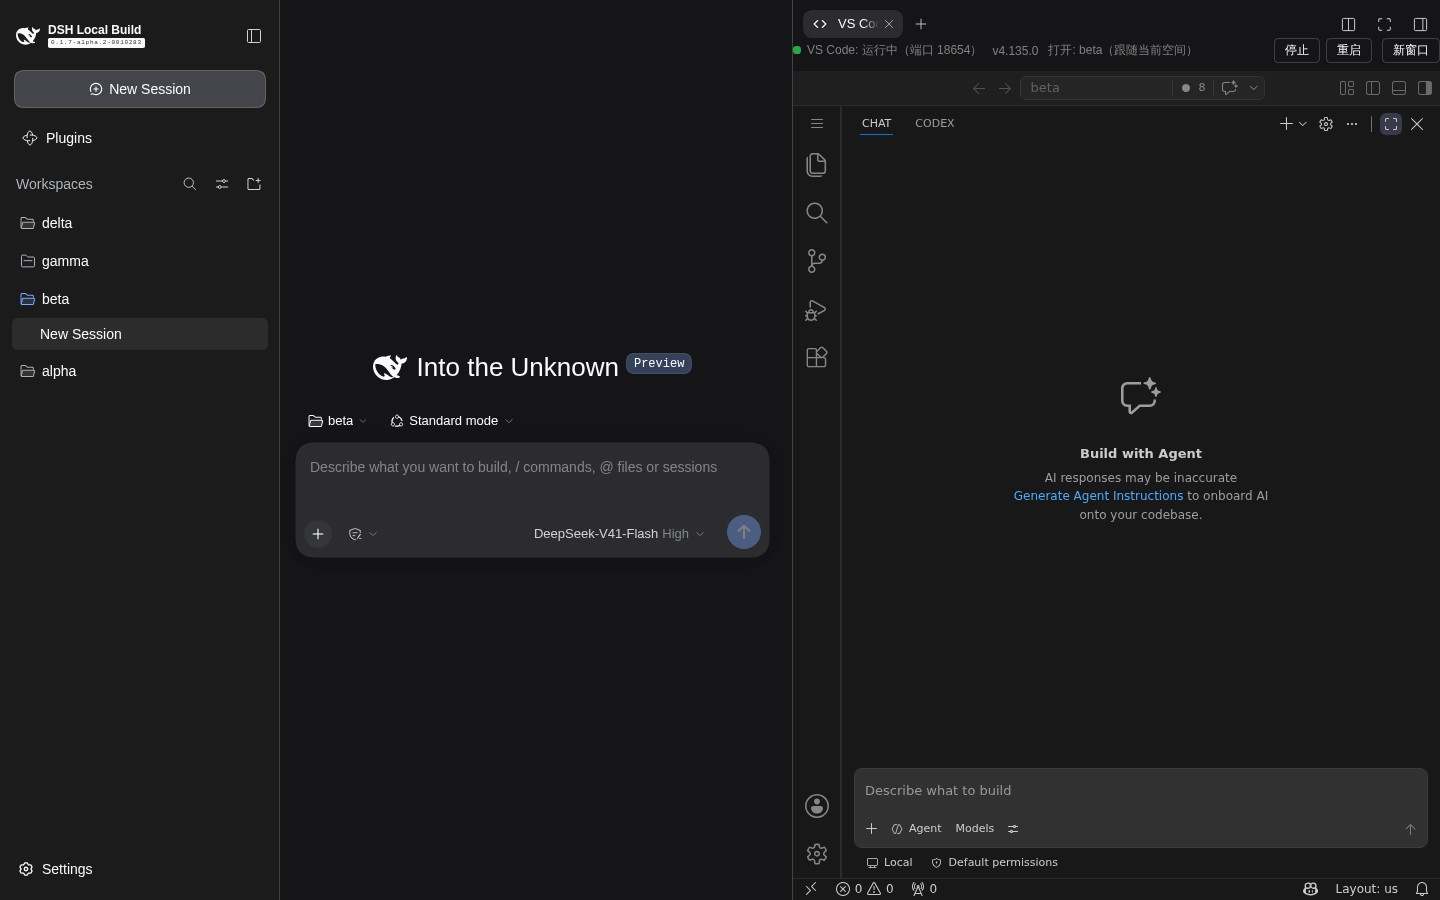
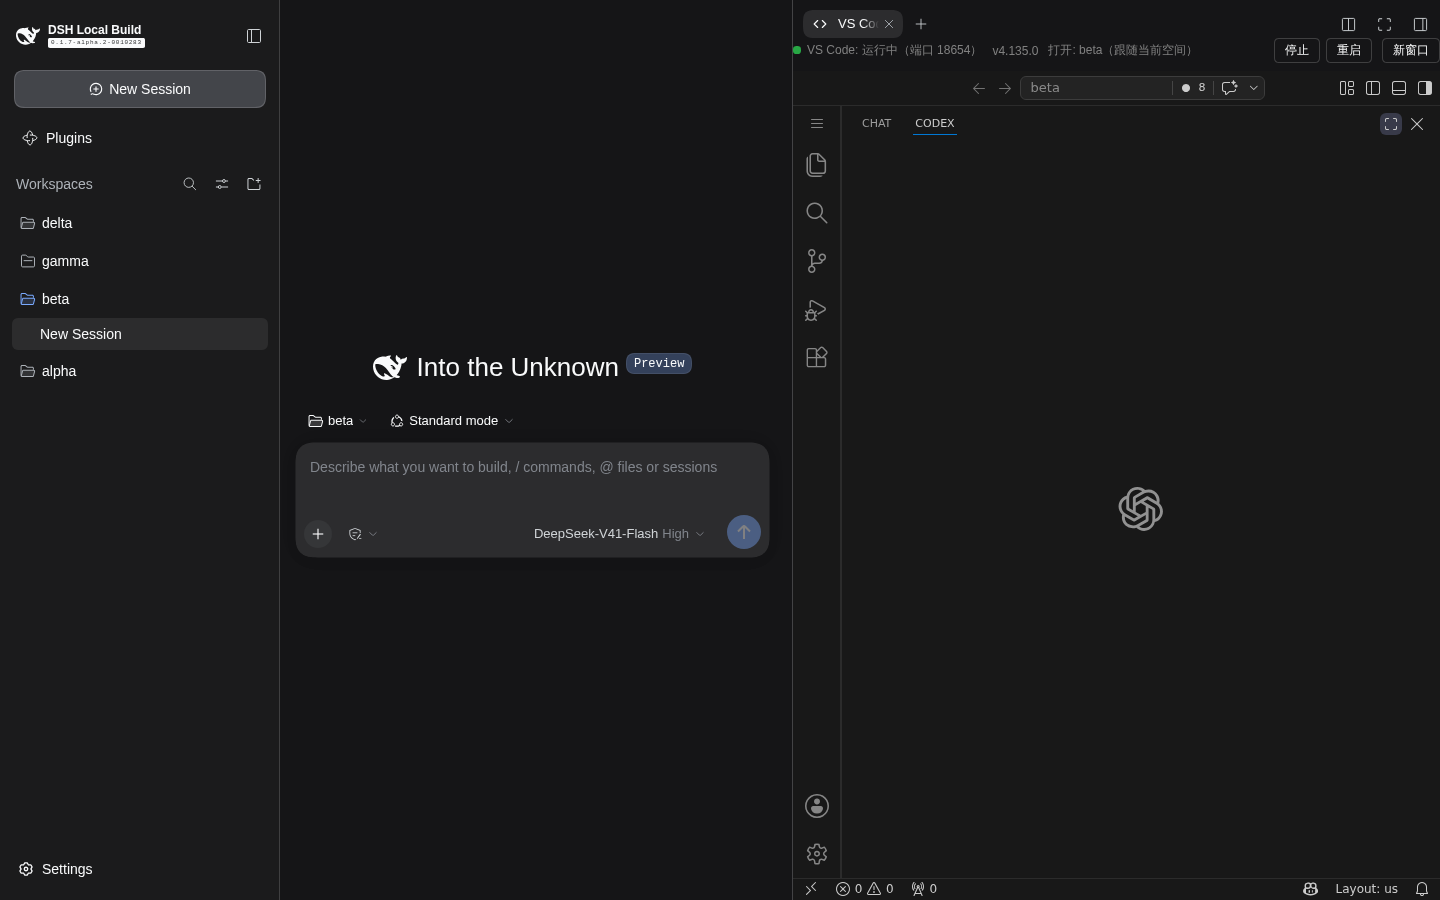
feat: 副边栏默认定位到 Codex（新 workspace 首启，扩展已装时）
- 宿主：findCodexAuxContainerId 扫 extensions 目录找 secondarySidebar 容器
  （codex 优先），ensureLayoutInitExtension 每次启动 code-server 前在 pinned
  安装树内置扩展目录幂等生成 dsh-layout-init 微扩展
- 微扩展 onStartupFinished 激活：容器命令存在且该 workspace 未定位过
  （workspaceState 记账，仅一次）才执行定位命令；不重复执行/不强拉
- e2e：V1/V4-gamma/V5 增加容器定位断言，全量回归 24/24 通过；
  报告 demo/e2e-report-0.1.23.md

Changed region(s): [[0.5938, 0.84, 1.0, 0.9644], [0.7188, 0.4978, 0.875, 0.5911], [0.7812, 0.4044, 0.8125, 0.4667]]

diff --git a/lib/index.js b/lib/index.js
@@ -137,6 +137,73 @@ export function apply(ctx) {
 
   function pinnedBinary() { return config.installDir + '/' + PIN.root + '/bin/code-server' }
 
+  // —— 微型内置扩展 dsh-layout-init（0.1.23）：新 workspace 首启把副边栏活动容器定位到 Codex ——
+  // 背景：副边栏默认容器是内置 Chat（GitHub agent 视图），Codex 虽已安装也要手动点一次标签。
+  // 做法：扫插件托管的 extensions 目录找贡献了 secondarySidebar 容器的扩展（标题/id 含 codex 优先），
+  // 在 pinned 安装树的内置扩展目录生成一个 only-once 执行容器命令的微扩展（幂等覆盖，随重启更新）。
+  // 每个 workspace 只执行一次（workspaceState 记账），之后交给用户与 VS Code 的持久化，不强拉。
+  function findCodexAuxContainerId() {
+    const dir = config.dataDir + '/extensions'
+    let fallback = null
+    let names = []
+    try { names = readdirSync(dir) } catch (e) { return null }
+    for (const name of names) {
+      let pkg = null
+      try { pkg = JSON.parse(readFileSync(dir + '/' + name + '/package.json', 'utf8')) } catch (e) { continue }
+      const containers = ((pkg.contributes || {}).viewsContainers || {}).secondarySidebar || []
+      for (const c of containers) {
+        const id = String((c && c.id) || '')
+        if (!id) continue
+        if (/codex/i.test(id + ' ' + String((c && c.title) || ''))) return id
+        if (!fallback) fallback = id
+      }
+    }
+    return fallback
+  }
+
+  function ensureLayoutInitExtension() {
+    if (config.serverMode !== 'pinned') return
+    const extRoot = config.installDir + '/' + PIN.root + '/lib/vscode/extensions/dsh-layout-init'
+    const containerId = findCodexAuxContainerId()
+    const command = containerId ? 'workbench.view.extension.' + containerId : ''
+    try {
+      mkdirSync(extRoot, { recursive: true })
+      writeFileSync(extRoot + '/package.json', JSON.stringify({
+        name: 'dsh-layout-init',
+        publisher: 'dsh',
+        version: '0.0.1',
+        displayName: 'DSH Layout Init',
+        description: 'DSH 桥生成的启动布局微扩展：新 workspace 首启把副边栏定位到 Codex 容器。',
+        engines: { vscode: '^1.70.0' },
+        main: './extension.js',
+        activationEvents: ['onStartupFinished'],
+      }, null, 2) + '\n')
+      writeFileSync(extRoot + '/extension.js', [
+        '// 由 dsh-vscode-bridge 在每次 code-server 启动时生成（幂等覆盖）。',
+        '// 行为：目标容器命令存在（Codex 已安装）且本 workspace 尚未定位过时，',
+        '// 执行一次容器定位命令；已定位过则不再执行（不与用户抢布局控制权）。',
+        "const vscode = require('vscode')",
+        'const TARGET_COMMAND = ' + JSON.stringify(command),
+        "const PIN_KEY = 'dsh.layoutInit.auxContainerPinned.v1'",
+        'async function activate(context) {',
+        '  try {',
+        '    if (!TARGET_COMMAND) return',
+        '    const cmds = await vscode.commands.getCommands(true)',
+        '    if (cmds.indexOf(TARGET_COMMAND) === -1) return',
+        '    if (context.workspaceState.get(PIN_KEY)) return',
+        '    await context.workspaceState.update(PIN_KEY, true)',
+        '    await vscode.commands.executeCommand(TARGET_COMMAND)',
+        '  } catch (e) { /* 静默：布局定位失败不影响启动 */ }',
+        '}',
+        'function deactivate() {}',
+        'module.exports = { activate, deactivate }',
+        '',
+      ].join('\n'))
+    } catch (e) {
+      console.log('dsh-vscode-bridge: 生成 dsh-layout-init 扩展失败（不阻断启动）: ' + String(e && e.message || e))
+    }
+  }
+
   async function ensureInstall() {
     if (config.serverMode === 'custom') {
       const bin = String(config.customBinaryPath || '').trim()
@@ -373,6 +440,7 @@ export function apply(ctx) {
     rt.lastError = ''
     try {
       const target = await ensureInstall()
+      ensureLayoutInitExtension()
       const dir = openDirOf(config)
       if (!dirExists(dir)) throw new Error('打开目录不存在: ' + dir)
       ensureDirs([config.dataDir + '/user-data', config.dataDir + '/extensions'])

diff --git a/demo/e2e-report-0.1.23.md b/demo/e2e-report-0.1.23.md
@@ -1,0 +1,63 @@
+# dsh-vscode-bridge 0.1.23 e2e 验证报告 —— 副边栏默认定位到 Codex（专注布局 + 信任目录回归）
+
+- **被测版本**：`dsh-vscode-bridge@0.1.23`（`feat/focus-layout` 分支；0.1.21 专注布局 + 0.1.22 信任目录之上，
+  新增「新 workspace 首启副边栏自动定位到 Codex」）
+- **验证环境**（按工作区规则 1，全程隔离调试实例，未触碰 3080 主实例与其 code-server 18644）：
+  - `DSH_HOME=/tmp/dsh-dev-home`、`DSH_VSCODE_BRIDGE_WORKSPACE=/tmp/dsh-dev-ws`、
+    `dsh web --profile web --no-open --port 3190`（code-server 18654）
+  - 同装 `dsh-better-sidebar@0.21.0`；扩展含 `openai.chatgpt`（Codex）/ `rust-analyzer`（自主实例只读复制）
+  - 测试空间 `/tmp/dsh-dev-ws/spaces/{alpha,beta,gamma,delta}`；e2e 开头自动重置（停 code-server →
+    清 user-data → config 复位 focusLayout/trustWorkspace=true、池上限 8 → ensure 启动）
+- **结果**：**24/24 断言通过**（原始记录：[e2e-results-0.1.23.json](./e2e-results-0.1.23.json)）
+
+## 0.1.23 新增实现
+
+**问题**：新 workspace 首启时副边栏默认容器是内置 Chat（GitHub agent 视图），Codex 装了也要手动点一次标签。
+
+**做法**（宿主 `lib/index.js`）：
+1. `findCodexAuxContainerId()`：扫插件托管的 extensions 目录各扩展 `package.json` 的
+   `contributes.viewsContainers.secondarySidebar`，取 id/标题含 `codex` 的容器（实测命中 Codex 扩展的
+   `codexSecondaryViewContainer`；找不到 codex 匹配时回退首个副边栏容器；未安装则返回 null）。
+2. `ensureLayoutInitExtension()`：每次启动 code-server 前在 pinned 安装树的**内置扩展目录**生成/覆盖
+   微型扩展 `dsh-layout-init`（node 侧 `main`，`onStartupFinished` 激活），目标命令
+   `workbench.view.extension.codexSecondaryViewContainer` 随生成时烘焙。
+3. 微扩展行为：容器命令存在（Codex 已安装）且**该 workspace 尚未定位过**（`workspaceState` 记账，
+   每 workspace 仅一次）才执行一次定位命令；已定位过 → 不再执行，布局交给用户与 VS Code 持久化，
+   **绝不重复执行/强拉**（与专注布局"不强拉"语义一致）。Codex 未安装 → 扩展静默空转；
+   custom 二进制模式不改其安装树、暂不注入；Codex 安装/卸载后重启 code-server 使生成内容更新。
+
+## 验证点与现场证据
+
+| # | 验证点 | 结果 |
+| --- | --- | --- |
+| V1 | alpha 首开：专注布局全项（边栏/编辑器/面板收起、状态栏隐藏、活动栏保留、副边栏最大化）+ 无信任横幅 + 四键落盘 | 8/8 PASS |
+| V1 | **副边栏默认定位到 Codex**：容器页签 `Chat\|Codex`，激活项 = **Codex**、标题 label = Codex | PASS |
+| V2 | 显式打开主边栏 → 解除最大化；重载后保留用户布局；状态栏仍隐藏 | 3/3 PASS |
+| V3 | 全新空间 beta 自动进专注 | PASS |
+| V4 | 关闭专注：alpha 状态栏恢复且保留用户布局；beta 保持专注；focus 三键移除、trust 键保留 | 6/6 PASS |
+| V4 | gamma 全新空间不自动最大化、状态栏可见，且**副边栏同样定位到 Codex（首启一次，专注关闭时也生效）** | PASS |
+| V5 | 重新开启：delta 再进专注、四键重新落盘、**副边栏定位到 Codex** | 3/3 PASS |
+| V6 | 设置页「专注布局」勾选框存在且状态一致（只读检查） | PASS |
+
+首开即定位到 Codex（无横幅、无杂物，OpenAI Codex 视图加载态）：
+
+![01 首开即定位 Codex](./01-focus-alpha.png)
+
+## 复跑方式
+
+```bash
+cd <本插件目录> && ln -sfn ../DSH-better-sidebar/node_modules node_modules
+DSH_URL='http://127.0.0.1:3190/?token=<一次性启动 token>' node demo/e2e-focus-layout.mjs
+# 隔离实例启动：
+cd <dsh 仓库> && DSH_HOME=/tmp/dsh-dev-home DSH_VSCODE_BRIDGE_WORKSPACE=/tmp/dsh-dev-ws \
+  node apps/cli/lib/bin.js --profile web --no-open --port 3190
+```
+
+## 说明与边界
+
+- 0.1.21（专注布局）/0.1.22（信任目录）的验证记录：[e2e-report-0.1.21.md](./e2e-report-0.1.21.md)、
+  [e2e-report-0.1.22.md](./e2e-report-0.1.22.md)；本轮 01–09 截图为 0.1.23 重跑产物（覆盖同名文件）。
+- 定位为「每 workspace 一次」：用户此后切到别的容器/关掉副边栏，重启/重载都不会被拉回——
+  与"已退出专注则保留用户布局"同一控制权语义。
+- 生成物写入的是 pinned 安装树内置扩展目录（本插件管理并已在补齐流程中验证过可写）；
+  更换固化版本（PIN 升级）后会随新安装树重新生成。

diff --git a/README.md b/README.md
@@ -105,6 +105,15 @@ user settings，之后不再跟随文件变化，而旧实现只是"挂载时随
 「忽略 `Default ` 前缀与大小写」比较（workbench 会把值规范化成当前构建的标签，如
 `Default Dark Modern` → `Dark Modern`），不再重复改写。同属 client 侧改动，刷新浏览器生效。
 
+**0.1.23 副边栏默认定位到 Codex**：新 workspace 首启时副边栏的默认容器是内置 Chat（GitHub agent
+视图），Codex 装了也要手动点一次标签。本版本起，宿主在每次启动 code-server 前扫描插件托管的
+extensions 目录，找贡献了 `secondarySidebar` 容器的扩展（id/标题含 `codex` 优先），在 pinned 安装树的
+**内置扩展目录**生成微型扩展 `dsh-layout-init`（幂等覆盖，重启 code-server 即更新）：其激活
+（`onStartupFinished`）后检查容器命令存在（Codex 已安装）且**该 workspace 尚未定位过**
+（`workspaceState` 记账，每 workspace 仅一次），才执行一次 `workbench.view.extension.<容器id>`。
+之后布局交给用户与 VS Code 持久化，绝不重复执行/强拉。Codex 未安装时扩展静默空转；
+custom 二进制模式不改其安装树、暂不注入。注意：Codex 安装/卸载后需重启 code-server 使生成内容更新。
+
 **0.1.22 信任打开的目录（禁用 Restricted Mode）**：设置页新增「信任打开的目录」开关（默认开）。
 开启时随 `/dsh-vscode/layout` 向 code-server 的 user settings.json 恒写
 `security.workspace.trust.enabled: false`（幂等、原子写，与专注布局三键同一落盘通道、每次 iframe
